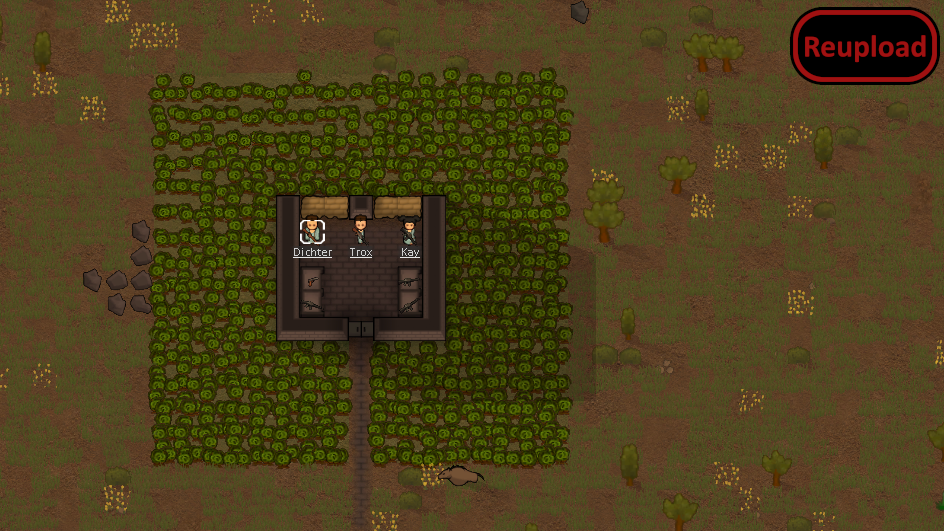
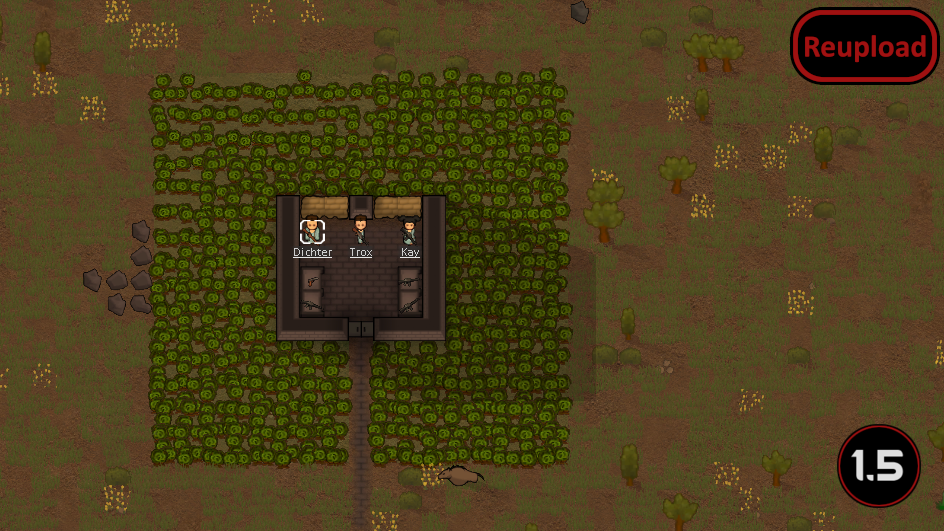
Mod updated for 1.5 and passed autotests

Changed region(s): [[0.8602, 0.7834, 0.9831, 0.9642]]

diff --git a/Source/TangleWeed/TangleweedFinder.cs b/Source/TangleWeed/TangleweedFinder.cs
@@ -6,22 +6,20 @@ namespace TangleWeed.AI;
 // Modeled after the PawnPathUtility class which gives an extension method on PawnPath 
 public static class TangleweedFinder
 {
-    public static Thing FirstTangleweed(this PawnPath path, out IntVec3 cellBefore, Pawn pawn = null)
+    public static Thing FirstTangleweed(this PawnPath path, Pawn pawn = null)
     {
         if (!path.Found)
         {
-            cellBefore = IntVec3.Invalid;
             return null;
         }
 
         var nodesReversed = path.NodesReversed;
         if (nodesReversed.Count == 1)
         {
-            cellBefore = nodesReversed[0];
             return null;
         }
 
-        var unused = IntVec3.Invalid;
+        _ = IntVec3.Invalid;
 
         for (var i = nodesReversed.Count - 2; i >= 1; i--)
         {
@@ -41,11 +39,9 @@ public static class TangleweedFinder
                 continue;
             }
 
-            cellBefore = nodesReversed[i + 1];
             return plant;
         }
 
-        cellBefore = nodesReversed[0];
         return null;
     }
 }

diff --git a/Source/TangleWeed/JobGiver_AITangleweedDestroyer.cs b/Source/TangleWeed/JobGiver_AITangleweedDestroyer.cs
@@ -43,14 +43,14 @@ public class JobGiver_AITangleweedDestroyer : ThinkNode_JobGiver
         using (var pawnPath = pawn.Map.pathFinder.FindPath(pawn.Position, vector,
                    TraverseParms.For(pawn, Danger.Deadly, TraverseMode.PassAllDestroyableThings)))
         {
-            var thing = pawnPath.FirstTangleweed(out _, pawn);
+            var thing = pawnPath.FirstTangleweed(pawn);
 
             if (thing == null)
             {
                 return new Job(JobDefOf.Goto, vector, 500, true);
             }
 
-            var job = AttackPlantUtility.AttackPlant(pawn, thing);
+            var job = AttackPlantUtility.AttackPlant(thing);
             if (job != null)
             {
                 return job;

diff --git a/Source/TangleWeed/AttackPlantUtility.cs b/Source/TangleWeed/AttackPlantUtility.cs
@@ -23,7 +23,7 @@ internal static class AttackPlantUtility
         job.expireRequiresEnemiesNearby = true;
     }
 
-    public static Job AttackPlant(Pawn pawn, Thing t)
+    public static Job AttackPlant(Thing t)
     {
         var job = new Job(JobDefOf.Ignite, t);
         FinalizeTrashJob(job);

diff --git a/README.md b/README.md
@@ -28,12 +28,13 @@ This mod adds a new plant called "Tangleweed vine" which is very difficult to wa
 
 -  See if the the error persists if you just have this mod and its requirements active.
 -  If not, try adding your other mods until it happens again.
--  Post your error-log using https://steamcommunity.com/workshop/filedetails/?id=818773962]HugsLib and command Ctrl+F12
+-  Post your error-log using https://steamcommunity.com/workshop/filedetails/?id=818773962]HugsLib or the standalone https://steamcommunity.com/sharedfiles/filedetails/?id=2873415404]Uploader and command Ctrl+F12
 -  For best support, please use the Discord-channel for error-reporting.
 -  Do not report errors by making a discussion-thread, I get no notification of that.
 -  If you have the solution for a problem, please post it to the GitHub repository.
+-  Use https://github.com/RimSort/RimSort/releases/latest]RimSort to sort your mods
 
 
 
+https://steamcommunity.com/sharedfiles/filedetails/changelog/2031800921]![Image](https://img.shields.io/github/v/release/emipa606/TangleWeed?label=latest%20version&style=plastic&color=9f1111&labelColor=black)
 
-https://steamcommunity.com/sharedfiles/filedetails/changelog/2031800921]Last updated 2023-02-28
